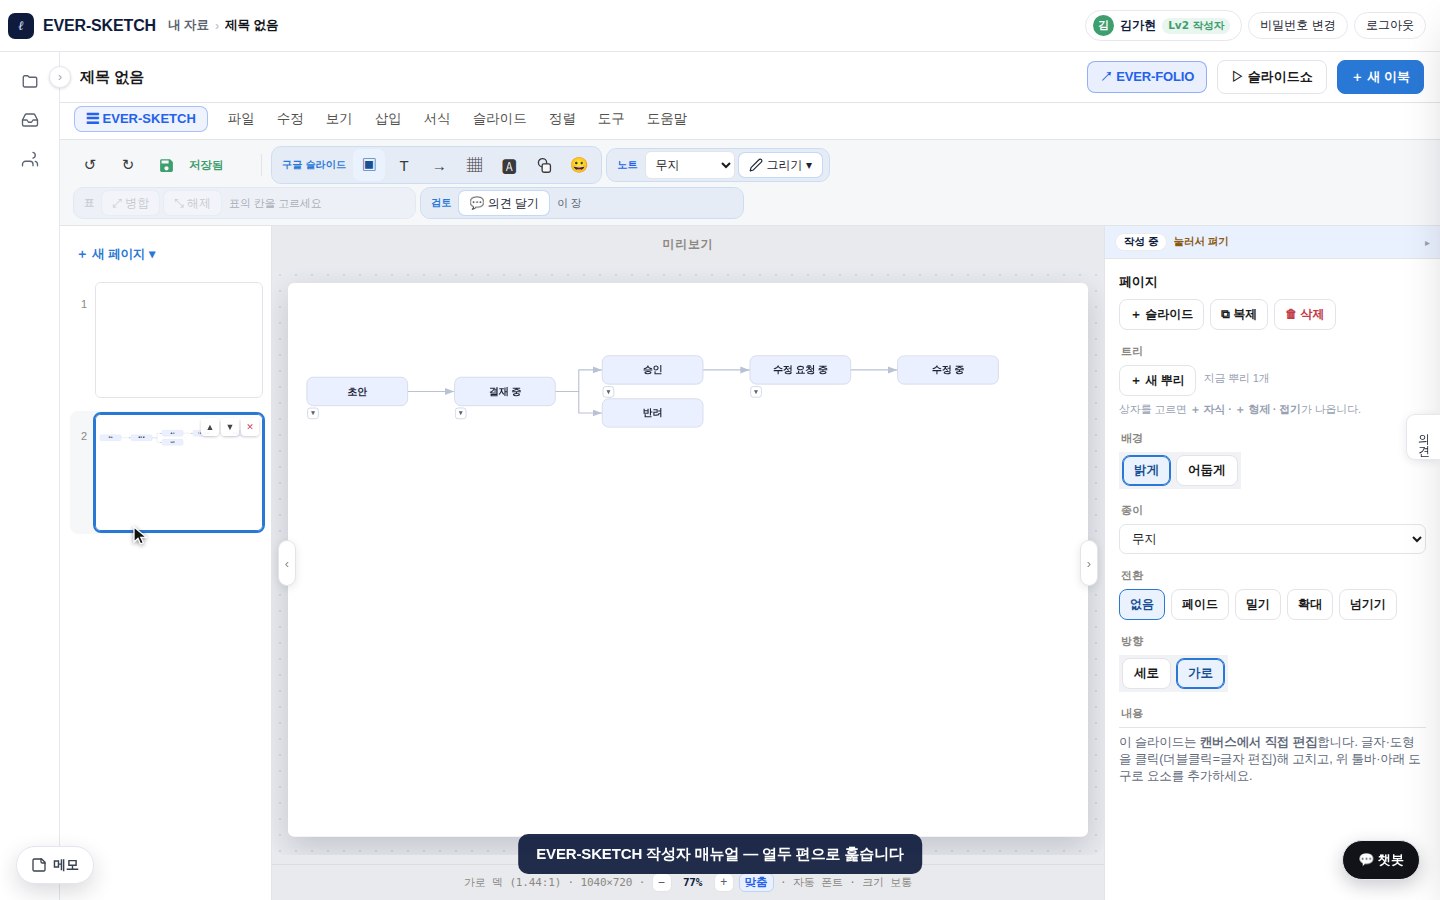
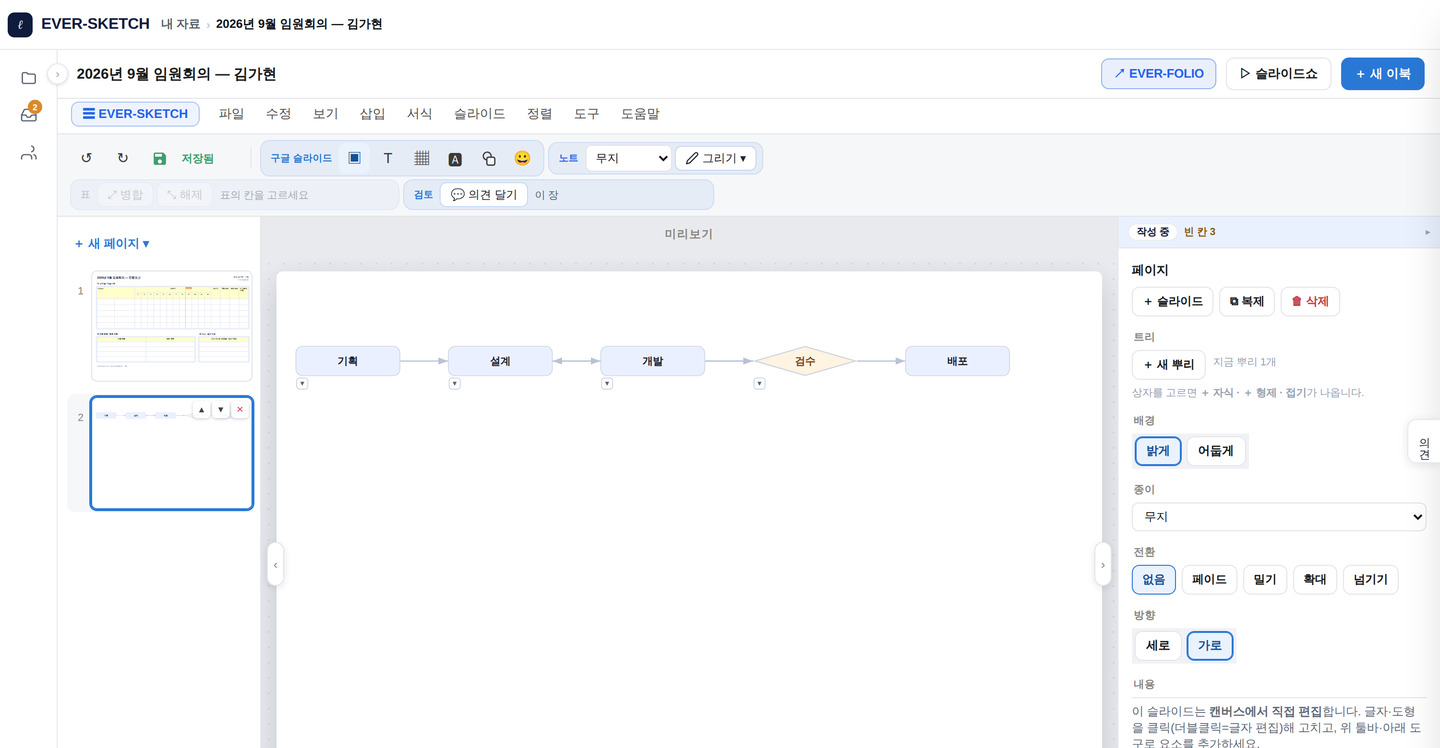
매뉴얼 열두 편 — 그림을 전부 다시 찍었다 (GIF → 정지 캡처)
앞 커밋(b43c7f4)에서 사실이 틀린 글 셋을 고쳤고, 남은 절반이 그림이었다.
시안 v2.2 의 45걸음과 같은 방식으로 **시험 서버를 몰아 전부 새로 찍었다.**

**무엇이 낡아 있었나.** GIF 프레임을 뜯어서 확인했다.
  · 「내 자료」가 나오는 모든 편(2·3·4·5·7·10·11) — 옛 목록형 화면이다. 지금은
    **상태 · 결재자 · 낸 날 · 수정일 · 발행 열이 있는 표**이고 왼쪽에 폴더, 오른쪽에 속성 패널이 붙는다.
  · 2편 — GIF 안에 「트리 · 머메이드로 뼈대 잡기」가 그대로 찍혀 있었다.
  · 3·6·9편 — 배지가 「시스템 관리자」다.
  · **12편 — 그림 안에 「팀 편성 · 승인 · 발행은 Lv1 이 합니다」가 구워져 있었다.**
    글은 앞 커밋에서 고쳤는데 그림 속 글자는 그대로였다.

**그래서 그림에 글자를 박지 않기로 했다.** 예전 GIF 에는 아래쪽에 설명 띠가 구워져 있었고,
그 글이 코드의 `line` 과 **같은 말을 두 벌로** 갖고 있었다. 규칙이 바뀌었을 때
`line` 만 고쳐서는 그림이 틀린 채로 남는다 — 12편이 정확히 그 꼴이었다.
이제 **말은 `line` 에만 있고**(유일본), 그림은 화면만 담는다.
그래야 `manual_truth.test.mjs` 가 말의 옳고 그름을 잴 수 있다.

**GIF → PNG.** 매뉴얼은 감상하는 게 아니라 **옆에 띄워 놓고 따라 하는 것**이다.
GIF 는 놓치면 다시 돌려야 하고, 멈춰서 글자를 읽을 수가 없고, 인쇄가 안 되고,
한 편이 400~600KB 였다. `dist` 가 5.3MB → **3.6MB** 로 줄었다.
`manual_files.test.mjs` 에 「정지 캡처여야 한다」를 더했다(부순 둘 다 잡힘).

**어떻게 찍었나 — 전부 실제 조작이다.** 세 계정(관리자 · 작성자 · 열람자)으로 시험 서버를
몰아, 제출하고 반려받고 승인받고 수정 요청까지 실제로 돌린 화면이다. 그중 몇은
이 방식이 아니면 못 만든다:
  · 3편 — 세 등급의 사이드바를 나란히. 열람자는 「내 자료」가 아니라 **「개인 스케치」**이고
    **결재함이 없다.**
  · 4편 — 한 화면에 **초안 · 결재 중 · 승인 · 반려** 네 상태가 다 보이고 잠긴 줄에 🔒 가 붙는다.
  · 10편 — 열람자를 팀에 넣기 전/후를 나란히. 「등급이 아니라 팀이 정한다」가 그림으로 보인다.
  · 11편 — **이번에 고친 그 화면이다.** 삭제가 막히는 이유가 모달에 뜬다(08cf646).
    이 그림을 찍으려다 그 버그를 찾았다.

**눈으로 확인했다.** 보기 ▸ 작성자 매뉴얼을 열어 1편부터 12편까지 넘기며
**열두 장이 모두 뜨는 것**과 그림 요청에 404 가 하나도 없는 것을 확인했다.

검증: tsc 0 · 프런트 2266 passed / 0 failed · dist 다시 빌드(5.3MB → 3.6MB).

diff --git a/src/builder/DemoPlayer.tsx b/src/builder/DemoPlayer.tsx
@@ -15,6 +15,21 @@
 import { useEffect, useState } from 'react'
 import Modal from '../ui/Modal'
 
+/**
+ * **그림은 정지 캡처(PNG)다. 2026-09-17 에 GIF 에서 바꿨다.**
+ *
+ * 이유 셋.
+ *  ① 매뉴얼은 **옆에 띄워 놓고 따라 하는 것**이다. GIF 는 놓치면 다시 돌려야 하고
+ *     멈춰서 글자를 읽을 수가 없다.
+ *  ② 인쇄가 안 된다. 정지 화면이면 그대로 PDF 가 된다.
+ *  ③ 한 편이 400~600KB 라 열두 편이 3MB 였다. 지금은 절반 이하다.
+ *
+ * **그리고 그림 안에 글자를 박지 않는다.** 예전 GIF 에는 아래쪽에 설명 띠가
+ * 구워져 있었는데, 그 글이 아래 `line` 과 같은 말을 두 벌로 갖고 있었다.
+ * 그래서 규칙이 바뀌었을 때(발행이 작성자에게 열렸을 때) `line` 만 고쳐서는
+ * **그림 속 글자가 틀린 채로 남았다.** 말은 코드에만 두고 — 여기 `line` 이 유일본이다 —
+ * 그림은 화면만 담는다. 그래야 `manual_truth.test.mjs` 가 말의 옳고 그름을 잴 수 있다.
+ */
 interface Ep { no: number; title: string; file: string; line: string }
 
 /** 열두 편. **찍은 순서가 곧 배우는 순서**다 — 만들기 → 흐름 → 막히는 곳 → 물어볼 곳. */
@@ -23,27 +38,27 @@ export const EPISODES: Ep[] = [
     line: 'EVER-SKETCH 를 처음 쓰는 작성자를 위한 열두 편입니다.' },
   // 2026-09-17 · 「트리 · 머메이드」가 **머메이드 TB / 머메이드 LR** 둘로 갈렸다(registry.ts).
   // 없는 이름을 가리키는 매뉴얼은 처음 쓰는 사람을 그 자리에서 막는다.
-  { no: 2, title: '글로 뼈대 잡기', file: '02_tree.gif',
+  { no: 2, title: '글로 뼈대 잡기', file: '02_tree.png',
     line: '＋ 새 페이지 ▾ ▸ 머메이드 TB(위→아래) 또는 머메이드 LR(왼→오른). 글로 치면 그림이 되고, 그다음엔 상자를 하나씩 잡고 옮깁니다.' },
-  { no: 3, title: '세 등급', file: '03_levels.gif',
+  { no: 3, title: '세 등급', file: '03_levels.png',
     line: 'Lv1 관리자 · Lv2 작성자 · Lv3 열람자. 로그인하면 사이드바부터 다릅니다.' },
-  { no: 4, title: '자료의 일생', file: '04_lifecycle.gif',
+  { no: 4, title: '자료의 일생', file: '04_lifecycle.png',
     line: '초안 → 결재 중 → 승인 · 반려 → 수정 요청 중 → 수정 중. 이 흐름이 이 도구의 뼈대입니다.' },
-  { no: 5, title: '제출하면 잠긴다', file: '05_submit.gif',
+  { no: 5, title: '제출하면 잠긴다', file: '05_submit.png',
     line: '제출하는 순간 문서가 그대로 얼어붙습니다. 뒤에 고쳐도 결재본은 안 바뀝니다.' },
-  { no: 6, title: '세 갈래', file: '06_decide.gif',
+  { no: 6, title: '세 갈래', file: '06_decide.png',
     line: '승인 · 반려는 관리자가, 회수는 낸 사람이 합니다. 관리자가 대신 회수하면 반려와 구분이 안 됩니다.' },
-  { no: 7, title: '승인 뒤 고치기', file: '07_revise.gif',
+  { no: 7, title: '승인 뒤 고치기', file: '07_revise.png',
     line: '승인된 자료는 잠깁니다. 「수정 요청」을 내고 관리자가 「허락」하면 그때 열립니다.' },
   // 2026-09-16 · 발행이 **작성자에게도 열렸다**(permissions.py 의 PUBLISH, 단 제 자료만).
   // 「관리자만」이라고 적어 두면 작성자가 아예 안 해 본다 — 없는 기능이 되는 셈이다.
-  { no: 8, title: '공유는 둘', file: '08_share.gif',
+  { no: 8, title: '공유는 둘', file: '08_share.png',
     line: '따로 공유 단추가 없습니다 — 승인이 곧 팀 공유입니다. 발행(EVER-FOLIO)은 작성자도 제 자료는 직접 합니다.' },
-  { no: 9, title: '의견', file: '09_comment.gif',
+  { no: 9, title: '의견', file: '09_comment.png',
     line: '결재함에서 지적하고 답합니다. 이 대화는 관리자와 낸 사람만 봅니다.' },
-  { no: 10, title: 'Lv3 화면', file: '10_viewer.gif',
+  { no: 10, title: 'Lv3 화면', file: '10_viewer.png',
     line: '열람자도 제 스케치를 씁니다. 같은 팀이면 승인본도 봅니다 — 등급이 아니라 팀이 정합니다.' },
-  { no: 11, title: '막히는 곳', file: '11_blocked.gif',
+  { no: 11, title: '막히는 곳', file: '11_blocked.png',
     line: '팀 없이 제출 · 잠긴 자료 고치기 · 낸 자료 지우기. 막히는 자리마다 왜 막히는지 말해 줍니다.' },
   // 발행이 여기서도 빠졌다(2026-09-16). 남은 셋은 여전히 관리자만 한다.
   { no: 12, title: '물어볼 곳', file: '12_ask.png',
